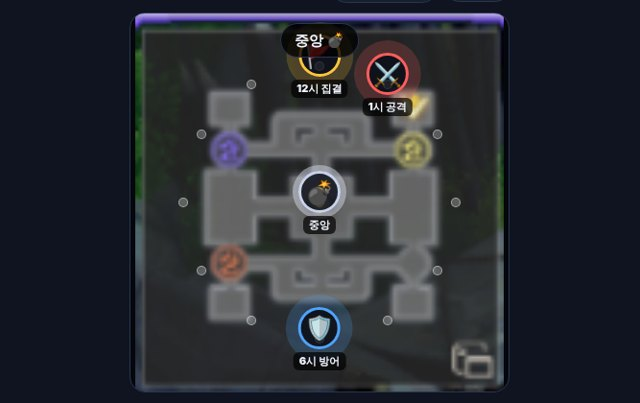
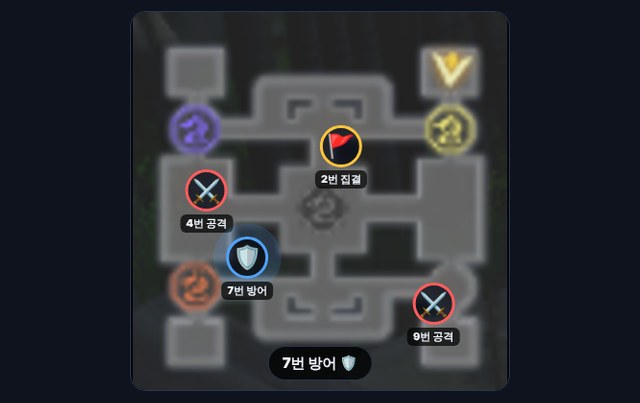
길드 작전판 공개: 이모지 명령 제거, 설명·썸네일 갱신
Claude-Session: https://claude.ai/code/session_01EKLRBZGv2CKJG1R7ZhWQ4P

diff --git a/public/games/guild-ping/index.html b/public/games/guild-ping/index.html
@@ -65,8 +65,6 @@ h1{font-size:19px;margin:0}
 .acts{display:grid;grid-template-columns:repeat(3,1fr);gap:8px;margin-top:10px}
 .acts button{border:0;border-radius:12px;padding:14px 0;font-weight:900;font-size:16px;color:#fff}
 .a-atk{background:linear-gradient(180deg,#ff7676,#d63c3c)}.a-def{background:linear-gradient(180deg,#6cb6ff,#2f7fe0)}.a-rally{background:linear-gradient(180deg,#ffd666,#e0a316);color:#2a1d00!important}
-.emos{display:grid;grid-template-columns:repeat(8,1fr);gap:6px;margin-top:8px}
-.emos button{border:1px solid var(--line);background:#0e1320;border-radius:10px;padding:8px 0;font-size:20px}
 .tools{display:flex;gap:8px;margin-top:10px}
 .tools .btn{flex:1;padding:10px;font-size:13px}
 .hint{color:var(--sub);font-size:12px;margin-top:8px;line-height:1.5}
@@ -117,9 +115,8 @@ h1{font-size:19px;margin:0}
           <button class="a-def" data-a="def">🛡 방어</button>
           <button class="a-rally" data-a="rally">🚩 집결</button>
         </div>
-        <div class="emos" id="emos"></div>
         <div class="tools"><button class="btn" id="bUndo">↩ 마지막 지우기</button><button class="btn" id="bClear">🧹 전체 지우기</button><button class="btn" id="bShare">🔗 코드 공유</button></div>
-        <p class="hint">지점을 고른 뒤 공격·방어·집결이나 이모지를 누르면 바로 길드원 화면에 찍혀요. 같은 지점에 새 명령을 보내면 바뀌어요.</p>
+        <p class="hint">지점을 고른 뒤 공격·방어·집결을 누르면 바로 길드원 화면에 찍혀요. 같은 지점에 새 명령을 보내면 바뀌어요.</p>
       </div>
     </div>
     <div class="watch" id="member" hidden>👀 관전 모드 — 길드장의 명령을 기다리는 중이에요</div>
@@ -145,7 +142,6 @@ const validLayout = (l) => l && typeof l === 'object' && DIRS.every((d) => Array
   ? Object.fromEntries(DIRS.map((d) => [d.id, [l[d.id][0], l[d.id][1]]])) : null;
 const pos = (d) => { const p = layoutOf(mapId)[d.id]; return { x: p[0], y: p[1] }; };
 const ACT = { atk: ['⚔', '공격'], def: ['🛡', '방어'], rally: ['🚩', '집결'] };
-const EMOS = ['👀', '💣', '🔥', '❗', '⏳', '🏃', '💀', '👍'];
 const CODE_CH = 'ABCDEFGHJKMNPQRSTUVWXYZ23456789';
 const MAPS = { shingi: { name: '신기쟁탈전', img: 'map-shingi.png' }, garden: { name: '미혹의정원', img: 'map-garden.png' } };
 
@@ -279,8 +275,6 @@ function buildLeaderUI() {
   };
   $('bReset').onclick = () => { layouts[mapId] = defLayout(); saveLayout(); logLine('지점 위치 기본으로'); publish(''); };
   document.querySelectorAll('.acts button').forEach((b) => b.onclick = () => command(b.dataset.a));
-  $('emos').innerHTML = EMOS.map((e) => `<button data-e="${e}">${e}</button>`).join('');
-  $('emos').querySelectorAll('button').forEach((b) => b.onclick = () => command('emo', b.dataset.e));
   $('bUndo').onclick = () => { const k = order.pop(); if (!k) return toast('지울 명령이 없어요'); delete pings[k]; lastNew = null; logLine(`${DIRS.find((x) => x.id === k).label} 명령 지움`); publish(''); };
   $('bClear').onclick = () => { pings = {}; order = []; lastNew = null; logLine('모든 명령 지움'); publish('명령 초기화'); };
   $('bShare').onclick = async () => {

diff --git a/src/lib/games.ts b/src/lib/games.ts
@@ -316,13 +316,12 @@ const CATALOG: Game[] = [
     kind: "tool",
     title: { ko: "길드 작전판", en: "Guild Command Map" },
     desc: {
-      ko: "길드장이 버튼으로 미니맵에 '12시 집결 · 1시 공격 · 6시 방어' 명령을 찍으면, 코드로 들어온 길드원 최대 50명이 실시간으로 보는 작전판",
-      en: "Guild leaders tap buttons to ping 'rally at 12, attack at 1, defend at 6' on a minimap — up to 50 members watch live with a room code",
+      ko: "길드장이 미니맵 지점에 공격·방어·집결 명령을 찍으면, 입장 코드로 들어온 길드원 최대 50명이 실시간으로 보는 작전판. 지점 위치는 길드장이 직접 옮길 수 있어요",
+      en: "Guild leaders ping attack, defend and rally orders on minimap points — up to 50 members watch live with a room code. Leaders can drag the points anywhere",
     },
     genre: "strategy",
     thumb: "/thumbs/guild-ping.jpg",
     src: "/games/guild-ping/index.html",
-    hidden: true, // 샘플 확인 후 공개
   },
   {
     id: "lotto",
